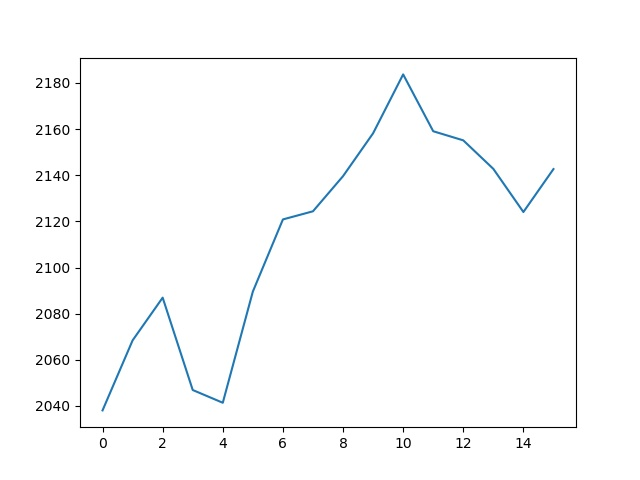
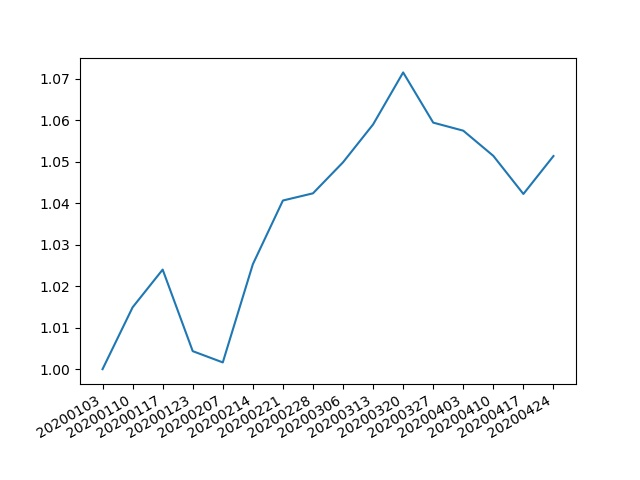
add backtesting results

diff --git a/cb_strategies/cb_arbitrage.py b/cb_strategies/cb_arbitrage.py
@@ -11,6 +11,8 @@
 import datetime
 import numpy as np
 import pandas as pd
+import math
+import numpy as np
 import matplotlib.pyplot as plt
 import pprint
 from collections import defaultdict
@@ -21,12 +23,13 @@ from data_processing.fetch_data import get_equ_mkts
 from data_processing.fetch_data import get_acc_dates
 from data_processing.fetch_data import get_trade_cal
 from utils.logger import Logger
+from utils.helper import write_json_file
 
 logger = Logger().get_log()
 
 
-def get_conv_pricing(trade_date='20200402', start_date='20200401', end_date='20200403', risk_free_rate=0.1, dividend=0,
-                     topk=10):
+def get_conv_bond_evaluates(trade_date='20200402', start_date='20200401', end_date='20200403', risk_free_rate=0.1,
+                            dividend=0):
     df_trade_cal, call_cnt = get_trade_cal(start_date, end_date)
     logger.info('complete trade cal query with call count:{0}'.format(call_cnt))
     df_trade_cal = df_trade_cal[df_trade_cal.isWeekEnd == 1]
@@ -112,18 +115,18 @@ def get_conv_pricing(trade_date='20200402', start_date='20200401', end_date='202
                    sell_cost=0.0)
             option_price = mc.MCPricer(option_type=option_type, isAmerican=True)
             evaluate_price = pure_bond_close + option_price
-            cb_price_evaluates.append(
-                [sec_id, cb_close, evaluate_price, cb_close / evaluate_price, d, pure_bond_close, option_price, T,
-                 volatility, strike, stock_price, acc_end_date[0]])
+            # cb_price_evaluates.append(
+            #     [sec_id, cb_close, evaluate_price, cb_close / evaluate_price, d, pure_bond_close, option_price, T,
+            #      volatility, strike, stock_price, acc_end_date[0]])
             all_rows.append(
                 [sec_id, cb_close, evaluate_price, cb_close / evaluate_price, d, pure_bond_close, option_price, T,
                  volatility, strike, stock_price, acc_end_date[0]])
-        cb_price_evaluates = sorted(cb_price_evaluates, key=lambda x: x[2])
-
-        cb_price_evaluates = cb_price_evaluates[:topk]
-        _mkt_val = np.array([item[1] for item in cb_price_evaluates]).mean()
-        portfolios[d] = cb_price_evaluates[:topk]
-        mkt_values.update({d: _mkt_val})
+        # cb_price_evaluates = sorted(cb_price_evaluates, key=lambda x: x[2])
+        #
+        # cb_price_evaluates = cb_price_evaluates[:topk]
+        # _mkt_val = np.array([item[1] for item in cb_price_evaluates]).mean()
+        # portfolios[d] = cb_price_evaluates[:topk]
+        # mkt_values.update({d: _mkt_val})
     df_all_cb_evaluates = pd.DataFrame(all_rows, columns=['sec_id', 'cb_close', 'evalute_price',
                                                           'prem_ratio', 'trade_date',
                                                           'pure_bond_close', 'option_price', 'duration',
@@ -132,24 +135,56 @@ def get_conv_pricing(trade_date='20200402', start_date='20200401', end_date='202
     df_all_cb_evaluates.to_csv("cb_evaluates_results_{0}_{1}.csv".format(start_date, end_date), index=False)
 
 
-def get_mkt_values(start_date='', end_date='', topk=20, init_cash=1000000):
+def get_mkt_values(start_date='', end_date='', topk=20):
     df = pd.read_csv('cb_evaluates_results_{0}_{1}.csv'.format(start_date, end_date))
     all_dates = list(set(df['trade_date']))
-    weekly_values = dict()
+    weekly_values = list()
     weekly_portfolios = list()
     all_dates = sorted(all_dates)
+    metric_dict = dict()
     for d in all_dates:
         _df = df[df.trade_date == d]
         _df.sort_values(by='prem_ratio', ascending=True, inplace=True)
         cb_close_lst = list(_df['cb_close'])[:topk]
         sec_id_lst = list(_df['sec_id'])[:topk]
+        sec_id_lst = sorted(sec_id_lst)
         sec_id_lst.append(d)
-        weekly_values.update({d: sum(cb_close_lst)})
+        weekly_values.append(sum(cb_close_lst))
+        # weekly_values.update({d: sum(cb_close_lst)})
         weekly_portfolios.append(sec_id_lst)
+
     df_portfolios = pd.DataFrame(weekly_portfolios)
-    print(df_portfolios)
-    plt.plot(list(weekly_values.values()))
+    all_returns = weekly_values[-1] / weekly_values[0] - 1
+
+    annual_return = math.pow(all_returns, len(weekly_values) / 52)
+    annual_vol = np.array(weekly_values).std() * math.sqrt(52)
+    max_drawdown = 0.0
+    idx = 0
+    left, right = weekly_values[0], 0
+    while idx < len(weekly_values) - 1:
+        if weekly_values[idx + 1] < weekly_values[idx]:
+            right = weekly_values[idx + 1]
+            if abs(float(right / left) - 1) > max_drawdown:
+                max_drawdown = abs(float(right / left) - 1.0)
+        else:
+            left = weekly_values[idx + 1]
+        idx += 1
+    metric_dict.update({'start_date': start_date, 'end_date': end_date, 'topk': topk, 'total_return': all_returns,
+                        'annual_return': annual_return, 'annual_vol': annual_vol,
+                        'max_drawdown': max_drawdown})
+    write_json_file('bact_testing_metrics.json',metric_dict)
+    df_portfolios.to_csv('portfolio_{0}_{1}.csv'.format(start_date, end_date))
+
+    net_values = [item / weekly_values[0] for item in weekly_values]
+    # plt.plot(net_values)
+    all_dates_str = [str(item) for item in all_dates]
+    plt.plot(all_dates_str, net_values)
+    plt.gcf().autofmt_xdate()
     plt.savefig('weekly_values_{0}_{1}.jpg'.format(start_date, end_date))
+
+
+def back_testing(start_date='', end_date='', *args, **kwargs):
+    topk = kwargs.get('topk') or 20
 
 
 if __name__ == '__main__':
@@ -157,6 +192,6 @@ if __name__ == '__main__':
     e1 = "20200416"
     s2 = '20200103'
     e2 = '20200425'
-    # get_conv_pricing(trade_date='20200402', start_date=s2, end_date=e2, risk_free_rate=0.1, dividend=0,
-    #                  topk=10)
+    get_conv_bond_evaluates(trade_date='20200402', start_date=s2, end_date=e2, risk_free_rate=0.1, dividend=0,
+                            topk=10)
     get_mkt_values(start_date=s2, end_date=e2, topk=20)

diff --git a/data_processing/fetch_data.py b/data_processing/fetch_data.py
@@ -22,11 +22,13 @@ from account_info.get_account_info import get_account_info
 uqer_client = uqer.Client(token=get_account_info().get('uqer_token'))
 logger = Logger().get_log()
 
+
 @func_count
 @timeit
 def get_trade_cal(start_date='20200103', end_date='20200424'):
     return DataAPI.TradeCalGet(exchangeCD=u"XSHG,XSHE", beginDate=start_date, endDate=end_date, isOpen=u"1",
                                field=u"", pandas="1")
+
 
 @func_count
 @timeit
@@ -47,6 +49,7 @@ def get_conv_bond_statics(ticker="", trade_date='20200401', start_date='20200401
     return conv_bond_statics
     # return ['113503.XSHG']
 
+
 @func_count
 @timeit
 def _get_conv_price(sec_id='', trade_date=''):
@@ -56,6 +59,7 @@ def _get_conv_price(sec_id='', trade_date=''):
     df = df[df.convDate <= trade_date]
     df.sort_values(by='convDate', ascending=True, inplace=True)
     return list(df['convPrice'])[-1]
+
 
 @func_count
 @timeit
@@ -70,6 +74,7 @@ def get_conv_bond_mkts(sec_ids=[], start_date='20200401', end_date='20200403'):
     # mkt_df['bondPosIndicator'] = ((mkt_df['closePriceBond'] - mkt_df['debtPuredebtRatio']) / mkt_df[
     #     'debtPuredebtRatio']) * 100
     return mkt_df
+
 
 @func_count
 @timeit
@@ -92,6 +97,7 @@ def get_equ_mkts(sec_ids=[], start_date='20200401', end_date='20200403'):
             print("check", ex)
     return ret
 
+
 @func_count
 @timeit
 def get_conv_price(sec_ids=[]):
@@ -100,10 +106,11 @@ def get_conv_price(sec_ids=[]):
         df.append(DataAPI.BondConvPriceChgGet(secID=sec_id, ticker=u"", field=u"", pandas="1"))
     return df
 
+
 @func_count
 @timeit
 def get_acc_dates(sec_ids=[], trade_date='', start_date='', end_date=''):
-    #TODO  start_date use the early one
+    # TODO  start_date use the early one
     acc_infos = DataAPI.BondCfGet(secID=sec_ids, ticker=u"", beginDate='20000401', endDate=end_date, cashTypeCD=u"",
                                   field=u"",
                                   pandas="1")

diff --git a/utils/helper.py b/utils/helper.py
@@ -9,6 +9,7 @@
 '''
 
 import types
+import json
 import time
 from functools import wraps
 
@@ -50,6 +51,20 @@ def add_func(x=1, y=2):
 @timeit
 def test_time():
     time.sleep(2)
+
+
+def write_json_file(file_path='', data=None):
+    if not data:
+        return
+    with open(file_path, 'w') as outfile:
+        j_data = json.dumps(data)
+        outfile.write(j_data)
+
+
+def load_json_file(filepath=''):
+    with open(filepath) as infile:
+        contents = infile.read()
+        return json.loads(contents)
 
 
 if __name__ == "__main__":
